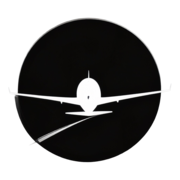
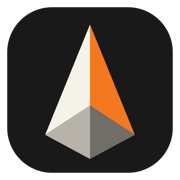
feat: adopt theme-aware vector brand mark

diff --git a/src/config/changelog.ts b/src/config/changelog.ts
@@ -50,15 +50,15 @@ export const CHANGELOG_TOTAL_COUNT = 73;
 
 export const CHANGELOG_RECENT: ChangelogEntry[] = [
   {
-    version: "v3.10.19",
+    version: "v3.10.20",
     kind: "feat",
     title: {
       en: "80 NM airport exploration, stable flight tracking, and clearer saved settings",
       zh: "80 海里机场探索、更稳定的航班追踪与更清晰的设置保存提示",
     },
     summary: {
-      en: "Tracked flights now begin from one dedicated, no-store current-position query instead of reusing an airport-list coordinate. Realtime coordinate frames are never replayed from cache: reconnects remain pending until a new frame arrives, stale/error frames cannot enter the recorded trace, and older fixes cannot pull a tracked marker backward. The tracked callsign then remains on one healthy free source until that source fails, while regional traffic uses its own recovery gate. The map status now names the successful position provider; a compact Cached tag appears only when the frame is stale. Airport maps retain aircraft and nearby airports within an 80 NM airport-centred area, where you can pan within the boundary and recenter from Map range. Flight tracking locks its live map view, keeps the watched aircraft's full current-leg trail visible, and keeps its trace, aircraft marker, route-to-destination line, and centre anchored to the same inferred position for a full minute during a brief feed gap. Selected airport runway previews remain open while nearby context refreshes. Completed map-setting saves appear as full, unobstructed notices. Blocking map loading stays in the visible map plane with matching sidebar skeletons; its centred line glyph now cycles aircraft, tower, and runway instead of the former wave animation. The map-range control now uses a clear map icon rather than a magnification read-out.",
-      zh: "航班追踪页现在会用一次专属、无缓存的当前定位查询开始，不再复用机场列表中带来的坐标。实时坐标不会再从缓存回放：重连会保持等待直到收到新帧，过期或错误帧不会写入记录航迹，较早的 fix 也不能把被追踪的飞机标记拉回去。随后该航班会固定使用一个健康的免费来源，直至它不可用；区域流量则使用独立的兜底闸门。地图状态现在会显示成功返回定位的 provider；只有帧过期时，provider 名前才会显示紧凑的“缓存”标签。机场地图会保留以机场为中心、80 海里范围内的飞机与附近机场；你可以在该范围内移动视野，并从地图范围菜单回到机场中心。航班追踪页锁定实时地图视图，始终保留被追踪飞机当前航段的完整轨迹，并在短暂数据缺口中让航迹、飞机标记、到目的地的路径和地图中心继续锚定于同一推断位置一分钟。附近上下文刷新时，已选机场的跑道预览也会保持打开。地图设置保存完成后则以完整、不被遮挡的提示显示。阻塞地图加载会留在可见地图区，侧栏显示对应骨架；居中的线稿图标会在飞机、塔台和跑道之间循环，取代旧的波形动画。地图范围控件现在使用清晰的地图图标，而非放大倍率读数。",
+      en: "Tracked flights now begin from one dedicated, no-store current-position query instead of reusing an airport-list coordinate. Realtime coordinate frames are never replayed from cache: reconnects remain pending until a new frame arrives, stale/error frames cannot enter the recorded trace, and older fixes cannot pull a tracked marker backward. The tracked callsign then remains on one healthy free source until that source fails, while regional traffic uses its own recovery gate. The map status now names the successful position provider; a compact Cached tag appears only when the frame is stale. Airport maps retain aircraft and nearby airports within an 80 NM airport-centred area, where you can pan within the boundary and recenter from Map range. Flight tracking locks its live map view, keeps the watched aircraft's full current-leg trail visible, and keeps its trace, aircraft marker, route-to-destination line, and centre anchored to the same inferred position for a full minute during a brief feed gap. Selected airport runway previews remain open while nearby context refreshes. Completed map-setting saves appear as full, unobstructed notices. Blocking map loading stays in the visible map plane with matching sidebar skeletons; its centred line glyph now cycles aircraft, tower, and runway instead of the former wave animation. The map-range control now uses a clear map icon rather than a magnification read-out. ADSBao now uses a precise four-plane direction mark across the app and PWA, with a light or dark tile that follows the selected theme.",
+      zh: "航班追踪页现在会用一次专属、无缓存的当前定位查询开始，不再复用机场列表中带来的坐标。实时坐标不会再从缓存回放：重连会保持等待直到收到新帧，过期或错误帧不会写入记录航迹，较早的 fix 也不能把被追踪的飞机标记拉回去。随后该航班会固定使用一个健康的免费来源，直至它不可用；区域流量则使用独立的兜底闸门。地图状态现在会显示成功返回定位的 provider；只有帧过期时，provider 名前才会显示紧凑的“缓存”标签。机场地图会保留以机场为中心、80 海里范围内的飞机与附近机场；你可以在该范围内移动视野，并从地图范围菜单回到机场中心。航班追踪页锁定实时地图视图，始终保留被追踪飞机当前航段的完整轨迹，并在短暂数据缺口中让航迹、飞机标记、到目的地的路径和地图中心继续锚定于同一推断位置一分钟。附近上下文刷新时，已选机场的跑道预览也会保持打开。地图设置保存完成后则以完整、不被遮挡的提示显示。阻塞地图加载会留在可见地图区，侧栏显示对应骨架；居中的线稿图标会在飞机、塔台和跑道之间循环，取代旧的波形动画。地图范围控件现在使用清晰的地图图标，而非放大倍率读数。ADSBao 现已在应用和 PWA 中采用精确的四折面航向标识，浅色或深色底板会随所选主题切换。",
     },
     highlights: [],
   },

diff --git a/src/style.css b/src/style.css
@@ -5649,9 +5649,11 @@ body {
 }
 
 .brand-logo__mark {
-    --brand-logo-disc: oklch(0.12 0.012 260);
-    --brand-logo-ink: oklch(0.97 0.008 95);
-    --brand-logo-rim: color-mix(in oklab, var(--brand-logo-ink) 44%, transparent);
+    --brand-logo-tile: oklch(0.91 0.012 90);
+    --brand-logo-primary: oklch(0.16 0.009 90);
+    --brand-logo-signal: var(--atc-signal-accent);
+    --brand-logo-light-plane: oklch(0.97 0.006 90);
+    --brand-logo-shade-plane: oklch(0.65 0.008 90);
     filter: drop-shadow(0 1px 1px rgb(31 39 49 / 0.18))
         drop-shadow(0 2px 2px rgb(31 39 49 / 0.1));
     transform-box: fill-box;
@@ -5659,41 +5661,23 @@ body {
 }
 
 :root[data-theme="light"] .brand-logo__mark {
-    --brand-logo-disc: oklch(0.96 0.012 92);
-    --brand-logo-ink: oklch(0.16 0.018 258);
-    --brand-logo-rim: color-mix(in oklab, var(--brand-logo-ink) 26%, transparent);
+    --brand-logo-tile: oklch(0.91 0.012 90);
+    --brand-logo-primary: oklch(0.16 0.009 90);
+    --brand-logo-light-plane: oklch(0.97 0.006 90);
+    --brand-logo-shade-plane: oklch(0.65 0.008 90);
     filter: drop-shadow(0 1px 1px rgb(31 39 49 / 0.16))
         drop-shadow(0 2px 2px rgb(31 39 49 / 0.08));
 }
 
 :root[data-theme="dark"] .brand-logo__mark {
-    --brand-logo-disc: oklch(0.12 0.012 260);
-    --brand-logo-ink: oklch(0.97 0.008 95);
-    --brand-logo-rim: color-mix(in oklab, var(--brand-logo-ink) 44%, transparent);
+    --brand-logo-tile: oklch(0.13 0.005 90);
+    --brand-logo-primary: oklch(0.97 0.006 90);
+    --brand-logo-light-plane: oklch(0.74 0.008 90);
+    --brand-logo-shade-plane: oklch(0.48 0.008 90);
 }
 
-.brand-logo__disc {
-    fill: var(--brand-logo-disc);
-    transform-box: fill-box;
-    transform-origin: center;
-}
-
-.brand-logo__disc-rim {
-    fill: none;
-    stroke: var(--brand-logo-rim);
-    stroke-width: 0.75;
-    transform-box: fill-box;
-    transform-origin: center;
-}
-
-.brand-logo__route {
-    fill: none;
-    stroke: var(--brand-logo-ink);
-    stroke-linecap: round;
-    stroke-linejoin: round;
-    stroke-width: 1.9;
-    stroke-dasharray: 1;
-    stroke-dashoffset: 0;
+.brand-logo__tile {
+    fill: var(--brand-logo-tile);
     transform-box: fill-box;
     transform-origin: center;
 }
@@ -5704,32 +5688,27 @@ body {
 }
 
 .brand-logo__plane {
-    fill: var(--brand-logo-ink);
     transform-origin: center;
 }
+
+.brand-logo__plane--primary { fill: var(--brand-logo-primary); }
+.brand-logo__plane--signal { fill: var(--brand-logo-signal); }
+.brand-logo__plane--light { fill: var(--brand-logo-light-plane); }
+.brand-logo__plane--shade { fill: var(--brand-logo-shade-plane); }
 
 .brand-logo__word {
     transform-origin: left center;
 }
 
-.brand-logo--animated .brand-logo__disc,
-.brand-logo--animated .brand-logo__disc-rim {
-    animation: brand-logo-disc-enter 560ms cubic-bezier(0.22, 1, 0.36, 1) both;
-}
-
-.brand-logo--animated .brand-logo__route {
-    animation: brand-logo-route-draw 940ms cubic-bezier(0.16, 1, 0.3, 1) 90ms both;
-}
-
-.brand-logo--animated .brand-logo__plane {
-    animation: brand-logo-plane-enter 780ms cubic-bezier(0.22, 1, 0.36, 1) 210ms both;
+.brand-logo--animated .brand-logo__mark {
+    animation: brand-logo-mark-enter 620ms cubic-bezier(0.22, 1, 0.36, 1) both;
 }
 
 .brand-logo--animated .brand-logo__word {
     animation: brand-logo-word-enter 620ms cubic-bezier(0.22, 1, 0.36, 1) 430ms both;
 }
 
-@keyframes brand-logo-disc-enter {
+@keyframes brand-logo-mark-enter {
     from {
         opacity: 0;
         transform: scale(0.82);
@@ -5737,37 +5716,6 @@ body {
     to {
         opacity: 1;
         transform: scale(1);
-    }
-}
-
-@keyframes brand-logo-route-draw {
-    0% {
-        opacity: 0;
-        stroke-dashoffset: 1;
-        transform: translate(-3px, 3px);
-    }
-    18% {
-        opacity: 1;
-    }
-    100% {
-        opacity: 1;
-        stroke-dashoffset: 0;
-        transform: translate(0, 0);
-    }
-}
-
-@keyframes brand-logo-plane-enter {
-    0% {
-        opacity: 0;
-        transform: translate(-5px, 2px) rotate(-4deg) scale(0.88);
-    }
-    64% {
-        opacity: 1;
-        transform: translate(0.8px, -0.3px) rotate(0.7deg) scale(1.03);
-    }
-    100% {
-        opacity: 1;
-        transform: translate(0, 0) rotate(0deg) scale(1);
     }
 }
 
@@ -5783,10 +5731,7 @@ body {
 }
 
 @media (prefers-reduced-motion: reduce) {
-    .brand-logo--animated .brand-logo__disc,
-    .brand-logo--animated .brand-logo__disc-rim,
-    .brand-logo--animated .brand-logo__route,
-    .brand-logo--animated .brand-logo__plane,
+    .brand-logo--animated .brand-logo__mark,
     .brand-logo--animated .brand-logo__word {
         animation: none;
     }
@@ -7427,12 +7372,6 @@ body {
    (transparent at rest, frost + hairline only once content scrolls under
    it). The previous forced solid fill + bottom rule made the logo read as a
    divided strip split from the page content — removed. */
-
-.dither-page-panel .brand-logo__mark {
-    --brand-logo-disc: color-mix(in oklab, var(--atc-text) 12%, transparent);
-    --brand-logo-ink: var(--atc-text);
-    --brand-logo-rim: color-mix(in oklab, var(--atc-text) 18%, transparent);
-}
 
 :root[data-theme="dark"] .map-settings-sheet {
     --atc-bg: oklch(0.17 0.003 100);

diff --git a/src/components/brand/BrandLogo.tsx b/src/components/brand/BrandLogo.tsx
@@ -1,5 +1,5 @@
-// ADSBao wordmark and product mark. The mark is structured into semantic
-// pieces so the route, airframe, and wordmark can reveal independently.
+// ADSBao wordmark and product mark. The four planes describe a single tracked
+// position resolving into direction; the surrounding tile adapts to theme.
 export default function BrandLogo({
   height = 44,
   className = "",
@@ -27,34 +27,11 @@ export default function BrandLogo({
       className={`${className} ${animated ? "brand-logo--animated" : ""}`.trim()}
     >
       <g className="brand-logo__mark" aria-hidden="true">
-        <circle className="brand-logo__disc" cx="26" cy="26" r="23.5" />
-        <path
-          className="brand-logo__disc-rim"
-          d="M49.5 26a23.5 23.5 0 1 1-47 0 23.5 23.5 0 0 1 47 0Z"
-        />
-        <path
-          className="brand-logo__route"
-          d="M6.5 43.5C13.2 39.2 18.9 35.7 24.4 33.2c7.1-3.2 14.2-4.8 21.4-5.7"
-          pathLength="1"
-        />
-        <g className="brand-logo__plane">
-          <path
-            className="brand-logo__plane-wing"
-            d="M2.7 25.5 22.4 24c-.2 1.4-.2 2.9.1 4.2L3.3 27.1c-.7 0-1.2-.5-1.3-1.1-.1-.3.2-.5.7-.5Zm46.6 0L29.6 24c.2 1.4.2 2.9-.1 4.2l19.2-1.1c.7 0 1.2-.5 1.3-1.1.1-.3-.2-.5-.7-.5Z"
-          />
-          <path
-            className="brand-logo__plane-body"
-            d="M26 15.4c-3.7 2-5.5 6.3-4.9 11.8.4 3.6 1.7 6.7 3.5 9h2.8c1.8-2.3 3.1-5.4 3.5-9 .6-5.5-1.2-9.8-4.9-11.8Z"
-          />
-          <path
-            className="brand-logo__plane-tail"
-            d="M18.2 34.2 33.8 32.6l-4.6 4.4H22l-3.8-2.8Z"
-          />
-          <path
-            className="brand-logo__plane-fin"
-            d="M25.4 15.4 26 10.9l.6 4.5v3.5h-1.2v-3.5Z"
-          />
-        </g>
+        <rect className="brand-logo__tile" x="2" y="2" width="48" height="48" rx="13" />
+        <path className="brand-logo__plane brand-logo__plane--primary" d="M26 7v23.5l-13 8.5L26 7Z" />
+        <path className="brand-logo__plane brand-logo__plane--signal" d="M26 7 39 39l-13-8.5V7Z" />
+        <path className="brand-logo__plane brand-logo__plane--light" d="M13 39l13-8.5V46L13 39Z" />
+        <path className="brand-logo__plane brand-logo__plane--shade" d="m26 30.5 13 8.5L26 46V30.5Z" />
       </g>
       <text
         className="brand-logo__word"

diff --git a/index.html b/index.html
@@ -11,14 +11,14 @@
       content="Airport context with METAR weather, nearby aircraft, route hints, and map overlays."
     />
     <meta name="color-scheme" content="light dark" />
-    <meta name="theme-color" content="#0a0f0c" />
+    <meta name="theme-color" content="#f5f3ee" />
     <meta name="apple-mobile-web-app-capable" content="yes" />
     <meta name="mobile-web-app-capable" content="yes" />
     <meta name="apple-mobile-web-app-title" content="ADSBao" />
     <meta name="adsbao-realtime-url" content="" />
     <link rel="manifest" href="/manifest.webmanifest" />
     <link rel="apple-touch-icon" href="/apple-icon.png" />
-    <link rel="icon" href="/icon.png" />
+    <link rel="icon" href="/icon.svg" type="image/svg+xml" />
     <link rel="preconnect" href="https://fonts.googleapis.com" />
     <link rel="preconnect" href="https://fonts.gstatic.com" crossorigin />
     <link
